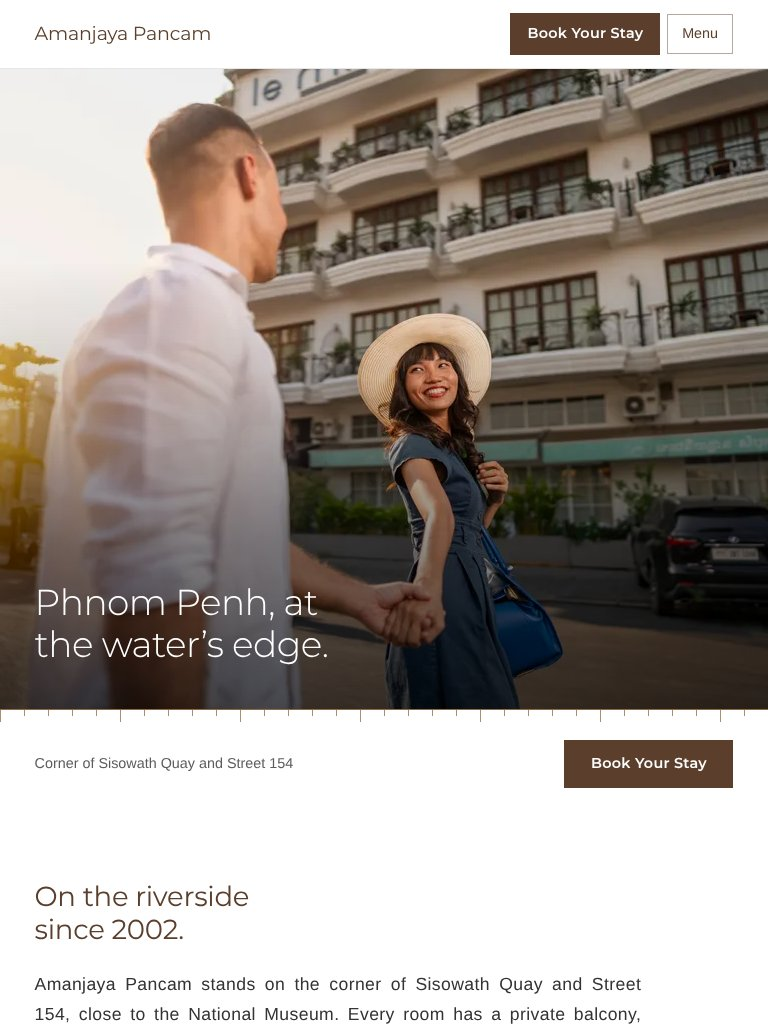
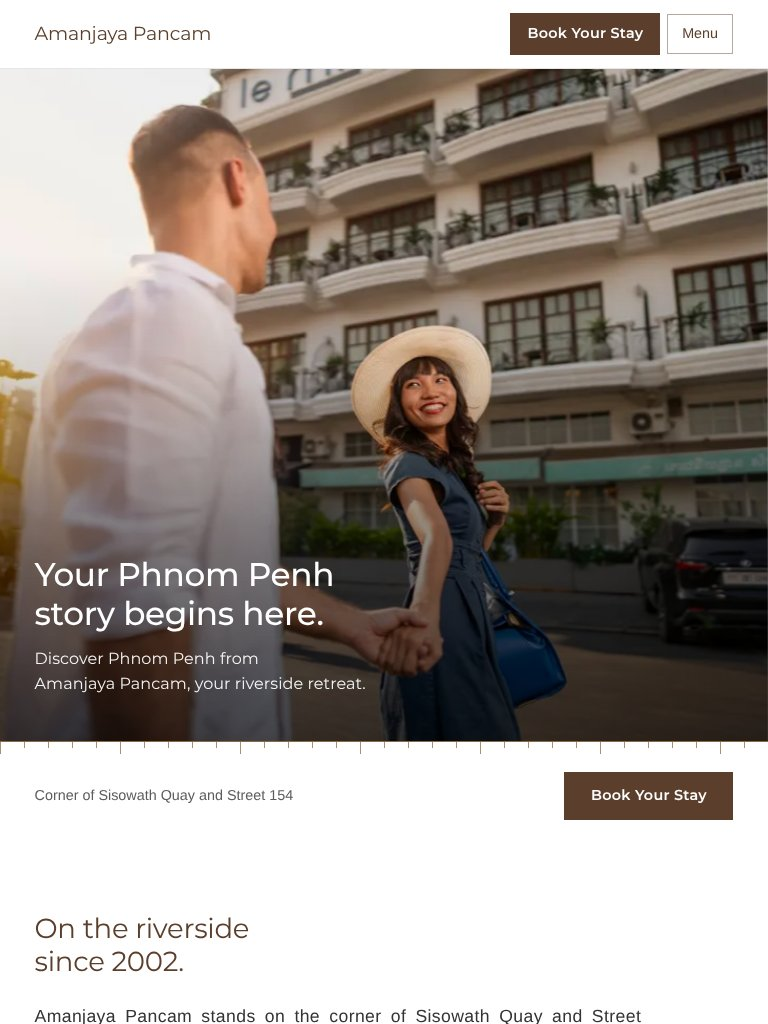
Hero: new headline and supporting line, text block on the right
Headline 'Your Phnom Penh story begins here.' in Montserrat 500 with a quieter
supporting line beneath it, left-aligned on one edge. Desktop: the block sits
upper right over the facade, clear of the woman's face. Phones: at the foot,
below both faces. Neutral shading only; contrast measured at 3.9:1 or better
for the headline and 4.5:1 or better for the supporting line.

Claude-Session: https://claude.ai/code/session_01Ltb6LhfXKYs7J7ZKfoUyej

diff --git a/src/content/home.ts b/src/content/home.ts
@@ -49,7 +49,8 @@ export const hero = {
   photo: chosenHero.photo,
   position: chosenHero.position,
   alt: chosenHero.alt,
-  title: 'Phnom Penh, at the water’s edge.',
+  title: 'Your Phnom Penh story begins here.',
+  support: 'Discover Phnom Penh from Amanjaya Pancam, your riverside retreat.',
 };
 
 export const welcome = {

diff --git a/docs/DESIGN-RATIONALE.md b/docs/DESIGN-RATIONALE.md
@@ -8,15 +8,15 @@ A hairline in bronze with a river-gauge scale hanging from it marks the join bet
 
 ## The hero
 
-A full-width, immersive photograph of the couple in front of the hotel, with the headline set directly on it in white Montserrat Light (46px at most). It replaces the earlier white text panel.
+A full-width, immersive photograph of the couple in front of the hotel, with the text set directly on it in white Montserrat. It replaced the earlier white text panel.
 
-- **No colour treatment.** The only overlay is neutral black: a light gradient from the left edge, plus a soft blurred shade that travels with the headline so the white shirt behind it never washes the text out. No golden, brown or blend-mode filter; the warm light is the photograph's own.
-- **Readability, measured.** Headline against the brightest pixels behind it: 3.7 to 4.1:1 at the worst (desktop widths) and 4.8 to 5.6:1 on tablets and phones, against the 3:1 that WCAG AA asks of large text.
-- **Crops.** Desktop shows the whole scene, with the headline over the sky and tree line on the left; the woman's face and the hotel's balconies stay clear. Phones crop in on the woman and the facade (focal point 66% 30%) and put the headline at the foot, below both faces.
-- **The intro sentence is gone from the hero** (the address still sits under the photograph beside the booking button, and the Welcome text carries the story). A restrained headline reads better over this photograph than a headline plus paragraph, and the paragraph could not be kept readable over the shirt.
-- The waterline still marks the join between photograph and page and draws once on load. The photograph still settles once on load (off under reduced motion).
-- The photograph is served up to 2560px wide, in the usual responsive WebP set; the hero loads eagerly with high priority.
-
+- **Words.** Headline: "Your Phnom Penh story begins here." (Medium 500, up to 40px). Beneath it, in the same block and on the same left edge: "Discover Phnom Penh from Amanjaya Pancam, your riverside retreat." (Regular 400, 15 to 17px, so clearly quieter). Both wrap to two balanced lines at every width, and "Phnom Penh" and "Amanjaya Pancam" never split across lines.
+- **Placement.** Desktop (56rem and up): the block sits on the right, in the upper part of the photograph, over the facade and above the woman's hat, so her face and the couple stay clear. Phones and tablets: the block sits at the foot, below both faces.
+- **No colour treatment.** The only overlay is neutral black: a light gradient from the right edge, plus a soft blurred shade that travels with the text block so the pale facade never washes it out. No golden, brown or blend-mode filter; the warm light is the photograph's own.
+- **Readability, measured** against the brightest pixels behind the text: headline 3.9:1 or better at the worst (typically 5 to 8:1); supporting line 4.5:1 or better at the worst (typically 6 to 10:1). AA asks 3:1 for large text and 4.5:1 for small.
+- **Crops.** Desktop shows the whole scene (focal point 60% 14%). Phones crop in on the woman and the facade (66% 30%).
+- The waterline still marks the join between photograph and page and draws once on load; the photograph settles once on load (off under reduced motion). The photograph is served up to 2560px wide in the usual responsive WebP set, loaded eagerly with high priority.
+- A left-hand version of the same block is in `docs/screenshots/hero-text-left-comparison.jpg`. It crowds the man's head, which is why the right was kept. To move the block, change `justify-content` on `.hero__overlay .container` (and mirror the gradient) in `Hero.astro`.
 
 ## Type
 
